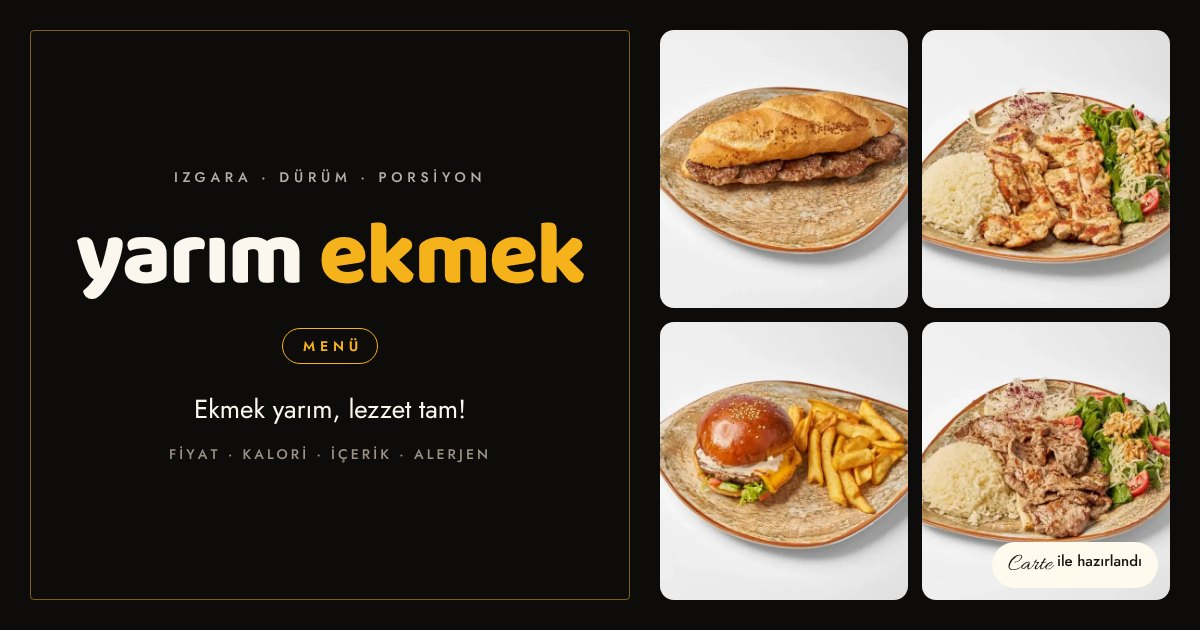
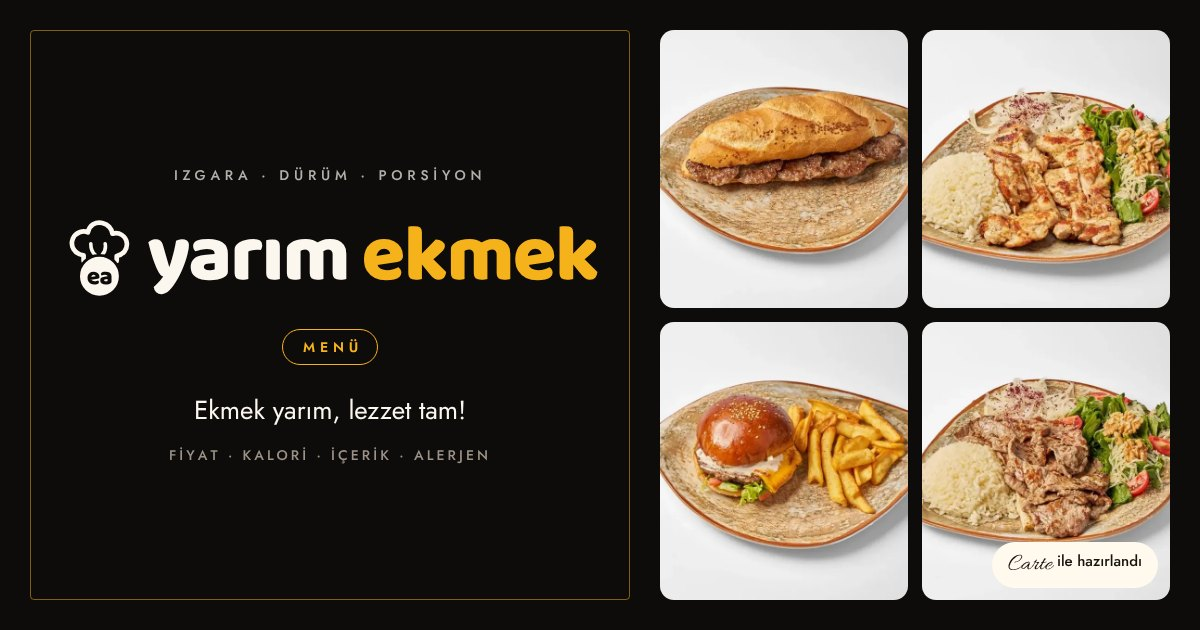
Add files via upload

diff --git a/yarim-ekmek/index.html b/yarim-ekmek/index.html
@@ -46,6 +46,7 @@ button{font-family:inherit}
 .wm{font-family:var(--brand);font-weight:800;line-height:.9;letter-spacing:-.02em;white-space:nowrap;display:inline-flex;align-items:baseline;gap:.18em}
 .wm b{font-weight:800;color:var(--text)}
 .wm i{font-style:normal;font-weight:800;color:var(--yel)}
+.wm .hat{width:.9em;height:auto;align-self:center;flex:none;margin-inline-end:.06em;transform:translateY(-.04em)}
 
 /* ---------- cover ---------- */
 .book{position:fixed;inset:0;z-index:30;perspective:2200px;perspective-origin:0% 50%;pointer-events:none}
@@ -68,14 +69,14 @@ button{font-family:inherit}
 .cover .bottom svg{width:18px;height:18px;color:var(--yel);animation:nudge 2.2s var(--ease) infinite}
 @keyframes nudge{0%,100%{transform:translateY(0);opacity:.6}50%{transform:translateY(6px);opacity:1}}
 .cover .mid{position:absolute;inset:0;display:flex;flex-direction:column;align-items:center;justify-content:center;text-align:center;padding:0 24px;z-index:1}
-.logo-start{font-size:clamp(60px,15vw,128px);visibility:hidden;padding-bottom:.14em}
+.logo-start{font-size:clamp(50px,12.5vw,118px);visibility:hidden;padding-bottom:.14em}
 .cover .pill{margin-top:22px;font-weight:600;font-size:11px;letter-spacing:.34em;text-transform:uppercase;color:var(--yel);border:1px solid var(--yel);border-radius:999px;padding:6px 14px 6px 18px}
 .cover .tag{margin-top:22px;max-width:30ch;color:var(--text);font-size:clamp(17px,2.4vw,21px);font-weight:400}
 .cover .rule{display:flex;align-items:center;gap:12px;margin-top:16px;color:var(--text-2);font-size:11px;letter-spacing:.3em;text-transform:uppercase}
 .cover .rule::before,.cover .rule::after{content:"";width:40px;height:1px;background:rgba(245,178,27,.5)}
 
 /* flying logo + top bar */
-.flylogo{position:fixed;left:0;top:0;z-index:35;margin:0;font-size:clamp(60px,15vw,128px);transform-origin:0 0;will-change:transform;pointer-events:none}
+.flylogo{position:fixed;left:0;top:0;z-index:35;margin:0;font-size:clamp(50px,12.5vw,118px);transform-origin:0 0;will-change:transform;pointer-events:none}
 .flylogo a{color:inherit;text-decoration:none;pointer-events:auto}
 .topbar{position:fixed;left:0;right:0;top:0;z-index:34;background:rgba(12,11,10,.9);backdrop-filter:blur(14px);-webkit-backdrop-filter:blur(14px);border-bottom:1px solid var(--line);transform:translateY(-100%);transition:transform .5s var(--ease)}
 .topbar.on{transform:none}
@@ -305,6 +306,7 @@ html.big .act small{font-size:16px}
 </style>
 </head>
 <body>
+<svg width="0" height="0" style="position:absolute" aria-hidden="true"><symbol id="ea" viewBox="0 0 100 118"><path d="M30 64V56C17 54 11 43 15 33C19 24 29 21 36 24C38 14 47 9 56 11C64 13 69 19 70 26C79 23 89 29 90 39C91 48 85 55 76 57V64" fill="none" stroke="#FBF6EE" stroke-width="6.5" stroke-linecap="round" stroke-linejoin="round"/><path d="M40 40C40 46 42 52 46 55M60 40C61 46 59 52 56 55" fill="none" stroke="#FBF6EE" stroke-width="5" stroke-linecap="round"/><circle cx="52" cy="85" r="29" fill="#FBF6EE" stroke="#0E0C0B" stroke-width="4"/><text x="52" y="96.5" text-anchor="middle" font-family="'Baloo 2','Jost',sans-serif" font-weight="800" font-size="34" fill="#0E0C0B" letter-spacing="-1">ea</text></symbol></svg>
 <div class="env" aria-hidden="true"></div>
 <div class="grain" aria-hidden="true"></div>
 
@@ -320,7 +322,7 @@ html.big .act small{font-size:16px}
       </div>
       <div class="top" data-i="top">Izgara · Dürüm · Porsiyon</div>
       <div class="mid">
-        <span class="wm logo-start" id="logoStart" aria-hidden="true"><b>yarım</b><i>ekmek</i></span>
+        <span class="wm logo-start" id="logoStart" aria-hidden="true"><svg class="hat" viewBox="0 0 100 118" aria-hidden="true"><use href="#ea"/></svg><b>yarım</b><i>ekmek</i></span>
         <span class="pill" data-i="pill">Menü</span>
         <p class="tag" data-i="tag">Ekmek yarım, lezzet tam!</p>
         <div class="rule" data-i="rule">Şef Enes'in ızgarasından</div>
@@ -333,11 +335,11 @@ html.big .act small{font-size:16px}
   </div>
 </div>
 
-<div class="flylogo" id="fly"><a href="#top" id="flyLink" tabindex="-1" aria-label="Yarım Ekmek"><span class="wm"><b>yarım</b><i>ekmek</i></span></a></div>
+<div class="flylogo" id="fly"><a href="#top" id="flyLink" tabindex="-1" aria-label="Yarım Ekmek"><span class="wm"><svg class="hat" viewBox="0 0 100 118" aria-hidden="true"><use href="#ea"/></svg><b>yarım</b><i>ekmek</i></span></a></div>
 
 <header class="topbar" id="topbar">
   <div class="row">
-    <span class="wm logo-end" id="logoEnd" aria-hidden="true"><b>yarım</b><i>ekmek</i></span>
+    <span class="wm logo-end" id="logoEnd" aria-hidden="true"><svg class="hat" viewBox="0 0 100 118" aria-hidden="true"><use href="#ea"/></svg><b>yarım</b><i>ekmek</i></span>
     <div class="tb-btns">
       <button class="ibtn" id="bBtn" type="button" aria-pressed="false" data-i-aria="bigText" aria-label="Büyük yazı"><span class="aa" aria-hidden="true">A<small>a</small></span></button>
       <div class="lwrap">
@@ -388,7 +390,7 @@ html.big .act small{font-size:16px}
 </section>
 
 <footer class="wrap">
-  <span class="wm"><b>yarım</b><i>ekmek</i></span>
+  <span class="wm"><svg class="hat" viewBox="0 0 100 118" aria-hidden="true"><use href="#ea"/></svg><b>yarım</b><i>ekmek</i></span>
   <p data-i="foot"></p>
   <a class="made" href="https://cartemenusistemleri.com.tr/" data-i-html="made"></a>
 </footer>
